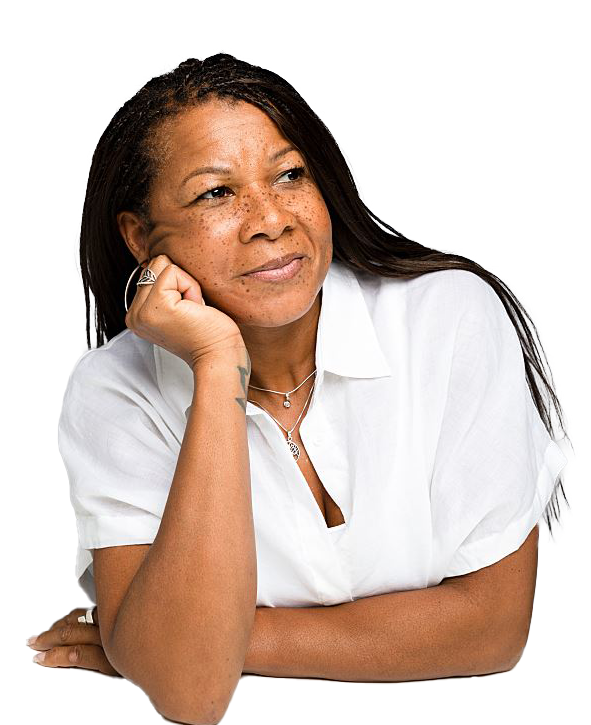
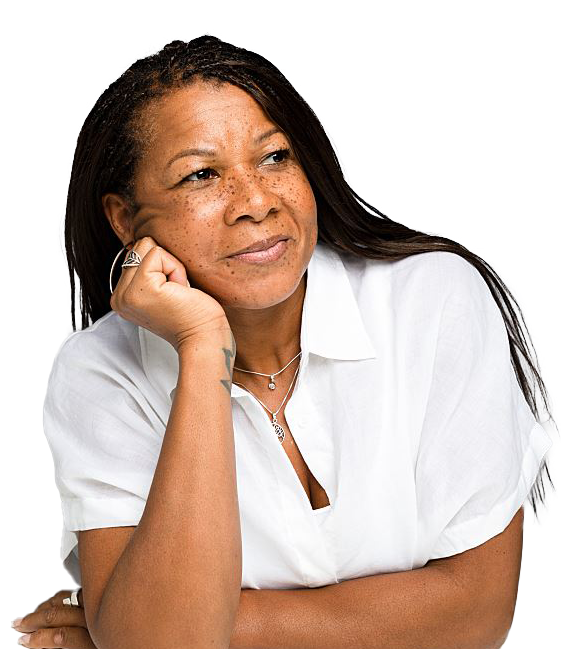
second commit

diff --git a/src/pages/Home/Home.jsx b/src/pages/Home/Home.jsx
@@ -10,7 +10,7 @@ function Home() {
       }}
     >
       <Grid container spacing={2}>
-        <Grid item md={9}>
+        <Grid item xs={12} md={9}>
           <Box
             sx={{
               color: "white",
@@ -28,7 +28,11 @@ function Home() {
               At Achieve, it’s not what we stand for, it’s who we stand for.
             </Typography>
             <Button
-              sx={{ mt: "30px", width: { xs: "90%", md: "50%" } }}
+              sx={{
+                mt: "30px",
+                width: { xs: "90%", md: "50%" },
+                backgroundColor: "#3300FF",
+              }}
               variant="contained"
             >
               See personal offer
@@ -47,22 +51,26 @@ function Home() {
             </Button>
           </Box>
         </Grid>
-        <Grid item md={3}>
+        <Grid item xs={12} md={3}>
           <Box
             sx={{
               height: "100%",
               display: "flex",
               justifyContent: "space-between",
               flexDirection: "column",
-              pl: { xs: "10px", md: "0px" },
-              pr: { xs: "10px", md: "0px" },
+              textAlign: "center",
+              pl: { xs: "30%", md: "0px" },
+              pr: { xs: "30%", md: "0px" },
             }}
           >
+            <Box></Box>
             <img
               style={{
                 width: "100%",
                 transform: "scaleX(-1)",
                 marginTop: "auto",
+                marginLeft: "auto",
+                marginRight: "auto",
               }}
               src="images/lady-image.png"
             ></img>
